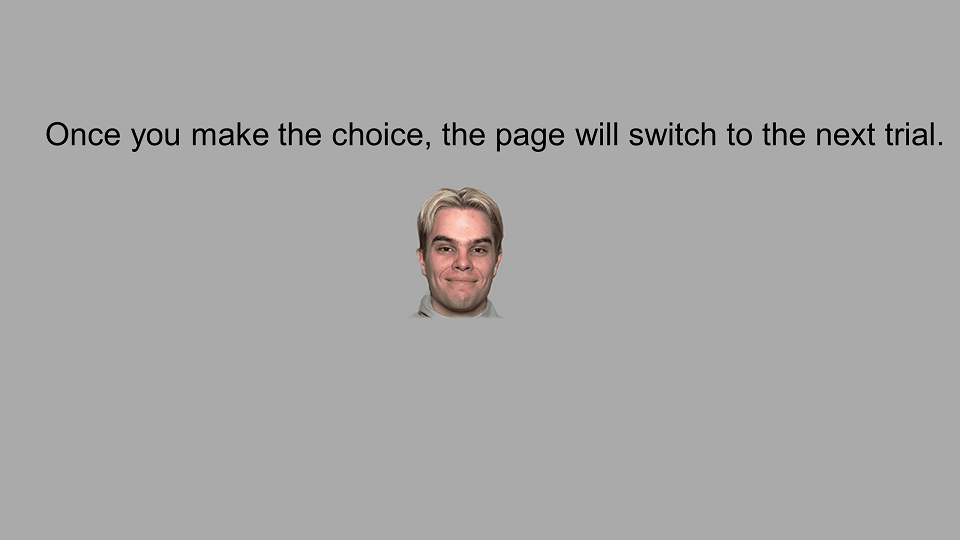
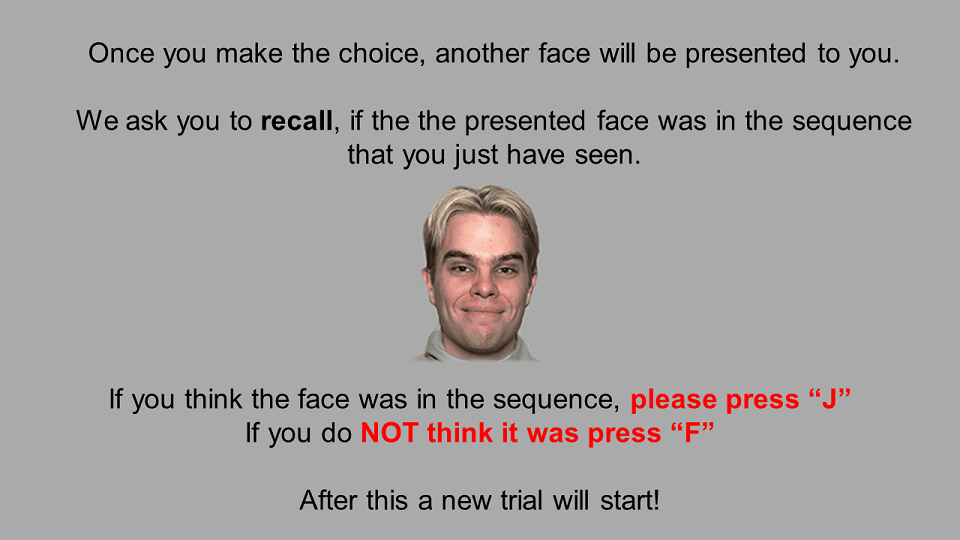
FirstVersionMemoryTask

diff --git a/sequencial_collective_emotion_estimation_MEMORY_task.html b/sequencial_collective_emotion_estimation_MEMORY_task.html
@@ -30,7 +30,7 @@
   var slideList = createSlideList (1,9);//list of instructions slides, which have index from 1 to 8
   var attentionStimulus = loadStimulus(2); //preload 2 images for attention check
   var userList =jQuery.get('https://web.stanford.edu/~amitgold/categorization_task/previousUsersID.txt', function(data) {});
-  var Face = {}; //create Face dictionary to (1)record fixation time, (2)make face sample and scale have the same person and valence in every trial
+  var Face = {}; //create Face dictionary to (1) record fixation time, (2)make face sample and scale have the same person and valence in every trial
   Face.facePool = [ ]; //record face data
   Face.wordList = ['but','rock','sky','our','course','we','table','house','here','mouth','tree', 'hello']; //word list for attention check
   var imageTestDescription = attentionStimulus; //designed for the image test
@@ -41,7 +41,7 @@
   /* Define local functions (other than functions file) */
   /* ****************************************************/
 
-  function saveData(){ //save data function
+  function saveData1(){ //save data function
     $.ajax({
       type: 'post',
       cache: false,
@@ -51,6 +51,10 @@
       //error: error_callback
     });
   }
+
+  function saveData(){ //save data function                #### CHANGE BACK AFTER MODIFYING
+    jsPsych.data.displayData();
+    };
 
   /******************************************/
   /* Set up Instructions */
@@ -133,10 +137,26 @@
     stimulus:  getFaceSample,
     trial_duration: 1000,  //display faces for 0.5 second
     choices: jsPsych.NO_KEYS,
-    data: function(){Name:'singleFace',
+    data: function(){
     //add data of the single face to face pool
-    Face.facePool.push(Face.singleFace)},
+    if (Face.facePool.length == 8){
+      Face.facePool = [ ]
+    } else {
+      Face.facePool.push(Face.image)
+    }}
   };
+
+  var memory = {
+    type: 'image-keyboard-response',
+    stimulus: memoryFace,
+    prompt: "<p>Press <strong>J</strong> if you think this face was in the sequence before, if you dont think so please press <strong>F</strong></p>",
+    choices: ['f', 'j'],
+    data: function(){ //we save all the data here to make it easy to analyze and process the data.
+    return {
+      Name: 'memory',
+      CorrectFaces: Face.facePool,
+      }}
+  }
 
   var response = { //participants see a slider and asked to estimate the mean group emotion
     type: 'image-slider-response_noButton',
@@ -152,6 +172,7 @@
       fixationTime: Face.fixationTime,
       faceIdentity: Face.personX,
       description: Face.description,
+      faceShown: Face.facePool,
       face_1:(Face.emotionX + Face.singleFace)
       }}
   };
@@ -177,29 +198,29 @@
 
   /* create experiment definition array */
   var collective_emotion_estimation = []; //display instructions
-  collective_emotion_estimation.push(consent);
+  /*collective_emotion_estimation.push(consent);*/
   collective_emotion_estimation.push(checkPhone,imageDescription,participant_id);
   for (var i = 0; i < slideList.length-2; i++) {
      collective_emotion_estimation.push(instructions)};
   collective_emotion_estimation.push(fixationGetFace,attentionCheck);//attention check before practice task
   for (var i = 0; i < practiceNumber; i++) {   //practice trials
-    faceNumber =  getRandomInt(1,12);
+    faceNumber =  8;
     for (var t = 0; t < faceNumber; t++) {
       collective_emotion_estimation.push(fixation,face);}
-    collective_emotion_estimation.push(response);
+    collective_emotion_estimation.push(response, memory);
   };
   collective_emotion_estimation.push(instructions); //move on to real task
   for (var i = 0; i < taskNumber/attentionCheckInterval; i++) {
     collective_emotion_estimation.push(fixation,attentionCheck); //attention check before real task
 
-      faceNumber = getRandomInt(1,12); //trial out of attention check loop
+      faceNumber = 8; //trial out of attention check loop
       collective_emotion_estimation.push(fixationGetFace);
       for (var t = 0; t < faceNumber; t++) {
       collective_emotion_estimation.push(fixation,face);}
       collective_emotion_estimation.push(response);
     var k = 0;
     while (k < (attentionCheckInterval-1)){
-      faceNumber = getRandomInt(1,12);
+      faceNumber = 8;
       collective_emotion_estimation.push(fixationGetFace);
       for (var t = 0; t < faceNumber; t++) {//one trial (different numbers of faces with one reponse)
       collective_emotion_estimation.push(fixation,face);}
@@ -223,7 +244,7 @@
     //};
     //saveData("2019_categorization_task_pilot_negative_stanford_preload_pictures/" + Face.ID+ ".json",
     //jsPsych.data.get().json(), final_submit, final_submit);
-    //jsPsych.data.get().localSave('csv',Face.ID+'.csv'); //save as csv file with id as file name
+    jsPsych.data.get().localSave('csv',Face.ID+'.csv'); //save as csv file with id as file name
     window.location = "https://hbs.qualtrics.com/jfe/form/SV_0OkYSqJ6k02BDyl" //redirect to Qualtrics survey
     }
   })

diff --git a/sequential_task_MEMORY_functions.js b/sequential_task_MEMORY_functions.js
@@ -126,7 +126,8 @@ function checkPhone (){
 
   function getFaceSample (){  //get the sample of faces in each trial
     Face.singleFace = getRandomInt(1, 50);
-    return ('img/'+ Face.personX +(Face.emotionX + Face.singleFace)+'.jpg');
+    Face.image = ('img/'+ Face.personX +(Face.emotionX + Face.singleFace)+'.jpg')
+    return Face.image;
   }
 
 
@@ -136,6 +137,68 @@ function checkPhone (){
        scale.push('img/'+Face.personX+(Face.emotionX +i) + '.jpg')}
     return scale;
   }
+
+  function memoryFace(){ //Select face for memory task
+    var correctFace = getRandomElement(Face.facePool);
+    var wrongFace = ImageToNumber(Face.facePool);
+    wrongFace = falseFace(wrongFace);
+    var RightWrong = [];
+    RightWrong.push(correctFace, wrongFace);
+    Face.mem = getRandomElement(RightWrong);
+    return Face.mem;
+  }
+
+  function ImageToNumber (facePool) {
+    var imageToNumb = facePool;
+    imageNumb = imageToNumb.toString().replace(/[^0-9,]/g, '');
+    imageNumb = imageNumb.split(',');
+    imageNumb = imageNumb.sort(function(a, b){return a-b});
+    return imageNumb;
+  }
+
+  function falseFace(imageNumb){
+    var imageDiff = diff(imageNumb);
+    var middle = Math.round(imageDiff/2);
+    var index = PicHighestIndex(imageNumb);
+    var PictureBase = imageNumb[index];
+    var FalsePicture = ('img/' +Face.personX+ (+PictureBase + +middle)+'.jpg');
+    return FalsePicture;
+  }
+
+  function diff(ary) {
+    var newA = [];
+    for (var i = 1; i < ary.length; i++)
+        newA.push(ary[i] - ary[i - 1]);
+    newA = Math.max.apply(null, newA)
+    return newA;
+}
+
+function PicHighestIndex(ary) {
+  var newB = [];
+  for (var i = 1; i < ary.length; i++)
+      newB.push(ary[i] - ary[i - 1]);
+  var highestDiffIndex = indexOfMax(newB);
+  return highestDiffIndex;
+
+}
+
+function indexOfMax(arr) {
+    if (arr.length === 0) {
+        return -1;
+    }
+
+    var max = arr[0];
+    var maxIndex = 0;
+
+    for (var i = 1; i < arr.length; i++) {
+        if (arr[i] > max) {
+            maxIndex = i;
+            max = arr[i];
+        }
+    }
+    return maxIndex;
+}
+
 
   function morphedScale (){ //generate the rating scale depending on the person and valence randomly chosen in faceArray
     // defining a few helper functions
